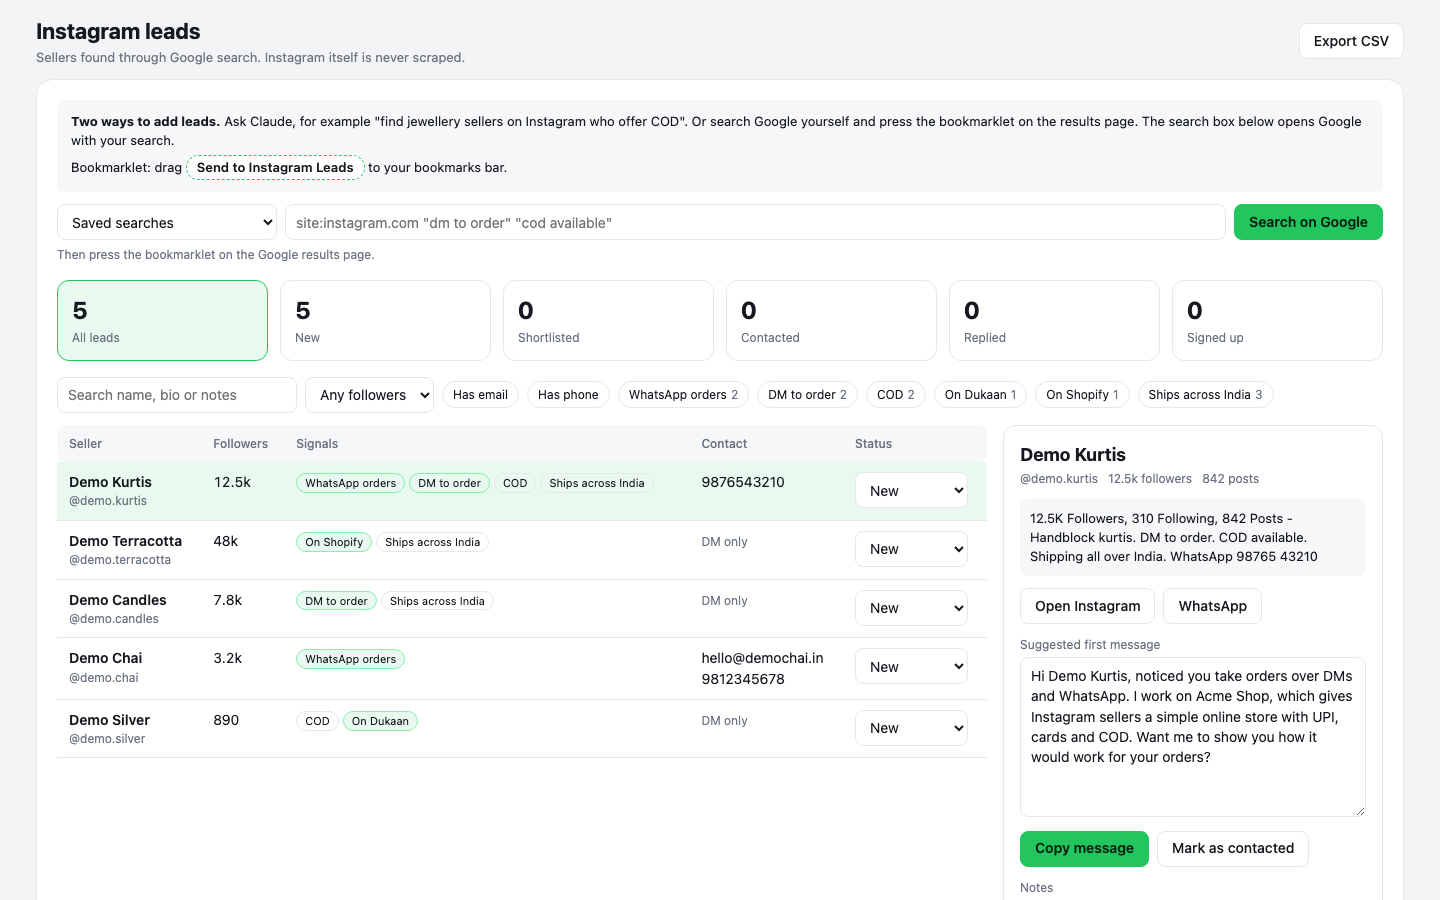
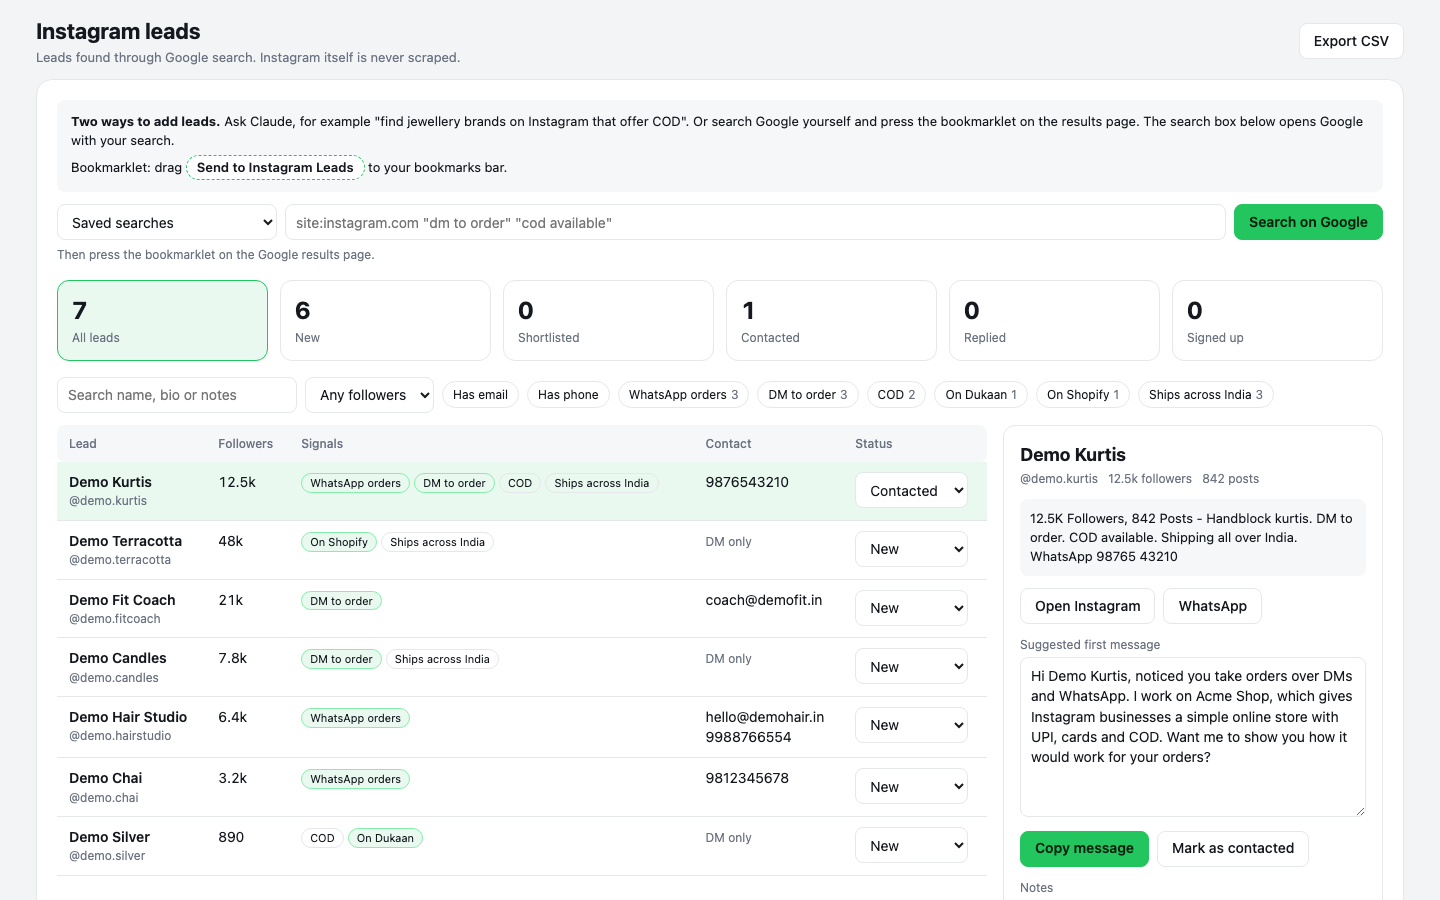
Say leads, not sellers, and add a demo GIF
The tool keeps any public business profile a search finds, so the docs, page and plugin description now say leads. The README opens with a 10-second demo; the screenshot moves to the review page section.

diff --git a/skills/instagram-leads/tool/index.html b/skills/instagram-leads/tool/index.html
@@ -75,14 +75,14 @@
 <body>
 <div class="wrap">
   <header>
-    <h1>Instagram leads<small>Sellers found through Google search. Instagram itself is never scraped.</small></h1>
+    <h1>Instagram leads<small>Leads found through Google search. Instagram itself is never scraped.</small></h1>
     <a class="btn" href="/api/export.csv" style="display:inline-flex;align-items:center;text-decoration:none">Export CSV</a>
   </header>
 
   <div class="sheet">
     <div id="import" class="import" hidden></div>
     <div class="howto">
-      <p><b>Two ways to add leads.</b> Ask Claude, for example "find jewellery sellers on Instagram who offer COD". Or search Google yourself and press the bookmarklet on the results page. The search box below opens Google with your search.</p>
+      <p><b>Two ways to add leads.</b> Ask Claude, for example "find jewellery brands on Instagram that offer COD". Or search Google yourself and press the bookmarklet on the results page. The search box below opens Google with your search.</p>
       <p>Bookmarklet: drag <a class="bm" id="bm" href="#">Send to Instagram Leads</a> to your bookmarks bar.</p>
     </div>
 
@@ -108,12 +108,12 @@
     <div class="layout">
       <div style="overflow-x:auto">
         <table>
-          <thead><tr><th>Seller</th><th class="num">Followers</th><th>Signals</th><th class="hide-sm">Contact</th><th>Status</th></tr></thead>
+          <thead><tr><th>Lead</th><th class="num">Followers</th><th>Signals</th><th class="hide-sm">Contact</th><th>Status</th></tr></thead>
           <tbody id="rows"></tbody>
         </table>
         <div class="empty" id="empty" hidden></div>
       </div>
-      <aside class="panel" id="panel"><div class="empty" style="padding:30px 10px">Pick a seller to see their bio, a suggested message and notes.</div></aside>
+      <aside class="panel" id="panel"><div class="empty" style="padding:30px 10px">Pick a lead to see their bio, a suggested message and notes.</div></aside>
     </div>
 
     <div class="runs" id="runs"></div>
@@ -188,7 +188,7 @@ function render() {
     </tr>`).join('')
   const e = $('empty')
   e.hidden = rows.length > 0
-  e.textContent = state.leads.length ? 'No sellers match these filters.' : 'No leads yet. Ask Claude to find some, or pick a saved search above.'
+  e.textContent = state.leads.length ? 'No leads match these filters.' : 'No leads yet. Ask Claude to find some, or pick a saved search above.'
 
   const SRC = { claude: 'Claude', bookmarklet: 'bookmarklet', manual: 'import' }
   $('runs').innerHTML = state.runs.length ? 'Recent searches: ' + state.runs.slice(0, 5).map(r => `${esc(r.query)} (${r.fresh} new of ${r.found}, ${esc(SRC[r.source] ?? 'import')})`).join(' &nbsp;/&nbsp; ') : ''
@@ -288,7 +288,7 @@ function showImport() {
   $('imp').onclick = async () => {
     try {
       const r = await api('/api/import', { method: 'POST', body: JSON.stringify({ query: data.query, results: data.results, source: 'bookmarklet' }) })
-      done(); toast(`Saved ${r.found} sellers, ${r.fresh} new.`); refresh()
+      done(); toast(`Saved ${r.found} leads, ${r.fresh} new.`); refresh()
     } catch (err) { toast(err.message || 'Could not save the results. Try again.', true) }
   }
 }

diff --git a/README.md b/README.md
@@ -1,12 +1,12 @@
 # Instagram leads skill
 
-A Claude Code skill, plus a small local tool, for finding small businesses that sell on Instagram. It finds public Instagram profiles in Google results, reads the bio text Google shows for each one, and tags each seller by how they sell today: orders over DMs or WhatsApp, a Shopify or Dukaan store, cash on delivery. You review the sellers in a local web page, keep notes and statuses, and copy a suggested first message.
+A Claude Code skill, plus a small local tool, for finding business leads on Instagram. It finds public Instagram profiles in Google results, reads the bio text Google shows for each one, and tags each lead by what the bio says: orders over DMs or WhatsApp, a Shopify or Dukaan store, cash on delivery, an email or phone number. You review the leads in a local web page, keep notes and statuses, and copy a suggested first message.
 
 It never logs in to Instagram or Facebook, never scrapes them, and never sends messages for you. No API key is needed.
 
-The defaults target Indian sellers. Change the country, searches and messages in two JSON files (see [Customise](#customise)).
+It works for any business you can describe in a search: shops, salons, coaches, cafes. The default searches and messages target online shops in India. Change the country, searches and messages in two JSON files (see [Customise](#customise)).
 
-![Review page](docs/screenshot.png)
+![Asking Claude for leads, then reviewing them on the local page](docs/demo.gif)
 
 ## How it finds leads
 
@@ -47,37 +47,37 @@ ln -s ~/instagram-leads-skill/skills/instagram-leads ~/.claude/skills/instagram-
 
 ## Using the skill
 
-A skill is a set of instructions Claude Code loads when your request matches it. This one tells Claude how to start the tool, search for sellers, save them and update them, so you only describe what you want.
+A skill is a set of instructions Claude Code loads when your request matches it. This one tells Claude how to start the tool, search for leads, save them and update them, so you only describe what you want.
 
 ### Start it
 
 Ask in plain words inside Claude Code, in any project:
 
 ```
-find jewellery sellers on Instagram who offer COD
+find jewellery brands on Instagram that offer COD
 ```
 
 Claude recognises the request and loads the skill. You can also call it by name:
 
 ```
-/instagram-leads find kurti sellers who take orders on WhatsApp
+/instagram-leads find salons in Pune with an email in their bio
 ```
 
 If you installed it as a plugin, the full name is `/social-leads-finder:instagram-leads`.
 
 ### First run
 
-The first time, Claude asks two things: what you sell, and one line on what it does for sellers. It saves them in `~/.instagram-leads/config.json` and uses them to fill in the suggested messages. Then it starts the review page at http://localhost:5600 and opens it.
+The first time, Claude asks two things: what you sell, and one line on what it does for your leads. It saves them in `~/.instagram-leads/config.json` and uses them to fill in the suggested messages. Then it starts the review page at http://localhost:5600 and opens it.
 
 ### Things to ask
 
 | You say | Claude does |
 |---|---|
-| "Find handmade candle sellers who ship across India" | Runs several searches and saves the sellers it finds |
+| "Find handmade candle brands that ship across India" | Runs several searches and saves the leads it finds |
 | "Show me the ones with more than 5k followers that take WhatsApp orders" | Filters your saved leads and lists them |
-| "Shortlist the sellers on Shopify and draft a message for each" | Sets their status and writes a message per seller |
+| "Shortlist the leads on Shopify and draft a message for each" | Sets their status and writes a message per lead |
 | "Mark @demo.kurtis as contacted, follow up Friday" | Updates the status and notes |
-| "Which searches found the most new sellers?" | Reads the search history |
+| "Which searches found the most new leads?" | Reads the search history |
 | "Export my leads to a CSV" | Saves a CSV file |
 | "Stop the leads tool" | Stops the local server |
 
@@ -101,10 +101,14 @@ Press it once for each results page you want. It only reads the page you are loo
 node skills/instagram-leads/tool/server.mjs
 ```
 
-Open http://localhost:5600 and add leads with the bookmarklet. Then:
+Open http://localhost:5600 and add leads with the bookmarklet.
 
-1. Filter by signal, follower count, or whether the seller lists an email or phone.
-2. Click a seller to see their bio and a suggested first message. Copy it, edit it and send it yourself.
+![Review page](docs/screenshot.png)
+
+On the review page:
+
+1. Filter by signal, follower count, or whether the lead lists an email or phone.
+2. Click a lead to see their bio and a suggested first message. Copy it, edit it and send it yourself.
 3. Set a status (Shortlisted, Contacted, Replied, Signed up, Not a fit) and add notes.
 4. **Export CSV** downloads everything.
 
@@ -134,11 +138,11 @@ Each search goes to the service that runs it: Claude's web search, or Google in 
 
 | File | What it holds |
 |---|---|
-| `leads.json` | Every seller found, with your statuses and notes |
+| `leads.json` | Every lead found, with your statuses and notes |
 | `config.json` | Your product, pitch, country and messages |
 | `queries.json` | Optional. Your own saved searches |
 
-Searching again updates sellers you already have and keeps your statuses and notes. Updating or reinstalling the skill does not touch this folder.
+Searching again updates leads you already have and keeps your statuses and notes. Updating or reinstalling the skill does not touch this folder.
 
 ## Customise
 
@@ -153,7 +157,7 @@ cp skills/instagram-leads/tool/config.json skills/instagram-leads/tool/queries.j
 - `product`: your product's name.
 - `pitch`: a clause that finishes "I work on {product}, which ...".
 - `country`: the Google country code the search box uses (`in`, `us`, `gb` and so on).
-- `messages`: four templates, picked by the seller's strongest signal: `shopify`, `store` (Dukaan or another store), `chat` (DMs or WhatsApp), and `default`. Templates can use `{name}`, `{product}`, `{pitch}` and `{channels}`.
+- `messages`: four templates, picked by the lead's strongest signal: `shopify`, `store` (Dukaan or another store), `chat` (DMs or WhatsApp), and `default`. Templates can use `{name}`, `{product}`, `{pitch}` and `{channels}`.
 
 `queries.json` is a list of saved searches, each with a `label` and a `query`.
 
@@ -174,8 +178,8 @@ To report a vulnerability, see [SECURITY.md](SECURITY.md).
 
 - Send every message yourself. Keep Instagram DMs to about 20 to 30 a day.
 - Don't send cold WhatsApp template messages. Meta bans numbers for it.
-- Keep only what sellers published for their business. If someone says no, mark them Not a fit and don't contact them again.
-- Check the privacy and marketing laws where you and the sellers are, such as India's DPDP Act or GDPR.
+- Keep only what leads published for their business. If someone says no, mark them Not a fit and don't contact them again.
+- Check the privacy and marketing laws where you and your leads are, such as India's DPDP Act or GDPR.
 
 ## License
 

diff --git a/skills/instagram-leads/SKILL.md b/skills/instagram-leads/SKILL.md
@@ -1,6 +1,6 @@
 ---
 name: instagram-leads
-description: Find small businesses selling on Instagram (by default Indian sellers who take orders over DMs or WhatsApp, or run on Shopify or Dukaan) from public Google results, review them in a local page and draft first messages. Never scrapes Instagram. Use when asked to find Instagram leads, prospect Instagram sellers, run or tune lead searches, review or shortlist leads, or draft outreach messages for them.
+description: Find business leads on Instagram from public Google results (by default Indian online shops that take orders over DMs or WhatsApp, or run on Shopify or Dukaan, but any business a search can describe), review them in a local page and draft first messages. Never scrapes Instagram. Use when asked to find Instagram leads, prospect businesses on Instagram, run or tune lead searches, review or shortlist leads, or draft outreach messages for them.
 ---
 
 # Instagram lead finder
@@ -30,7 +30,7 @@ open http://localhost:5600   # xdg-open on Linux
 mkdir -p ~/.instagram-leads && cp tool/config.json ~/.instagram-leads/config.json
 ```
 
-Set `product` to the name and `pitch` to a clause that completes "I work on {product}, which ...", for example "helps Instagram sellers take orders and payments online". Change `country` if the user targets sellers outside India.
+Set `product` to the name and `pitch` to a clause that completes "I work on {product}, which ...", for example "helps Instagram businesses take orders and payments online". Change `country` if the user targets leads outside India.
 
 Stop the server when the work is done: `kill $(lsof -tiTCP:5600 -sTCP:LISTEN)`.
 
@@ -68,7 +68,7 @@ Combine a category (kurti, jewellery, candles, skincare, snacks) with a selling 
 
 - whatsapp, dm_to_order: sells by chat.
 - shopify, dukaan, other_store, linktree, has_site: what storefront they use today.
-- cod, ships_india: active seller shipping nationally.
+- cod, ships_india: active business shipping nationally.
 
 The suggested message is picked from `config.json` by the strongest signal: `shopify`, then `store` (Dukaan or another store), then `chat`, then `default`. Templates can use `{name}`, `{product}`, `{pitch}` and `{channels}`.
 
@@ -77,4 +77,4 @@ The suggested message is picked from `config.json` by the strongest signal: `sho
 - Never scrape instagram.com or facebook.com, never open profiles in an automated browser, and never automate logins or DMs. It breaks Meta's terms and gets accounts banned.
 - Never automate Google searches in a browser. Use the web search tool or the user's own searches.
 - A person sends every message: copy the suggested text and DM by hand (about 20 to 30 a day), or email when the bio lists an address. Never send cold WhatsApp template messages.
-- Keep only what the seller published for business: name, handle, bio, business email or phone. When someone says no, set them to not_a_fit and do not contact them again.
+- Keep only what the lead published for business: name, handle, bio, business email or phone. When someone says no, set them to not_a_fit and do not contact them again.
